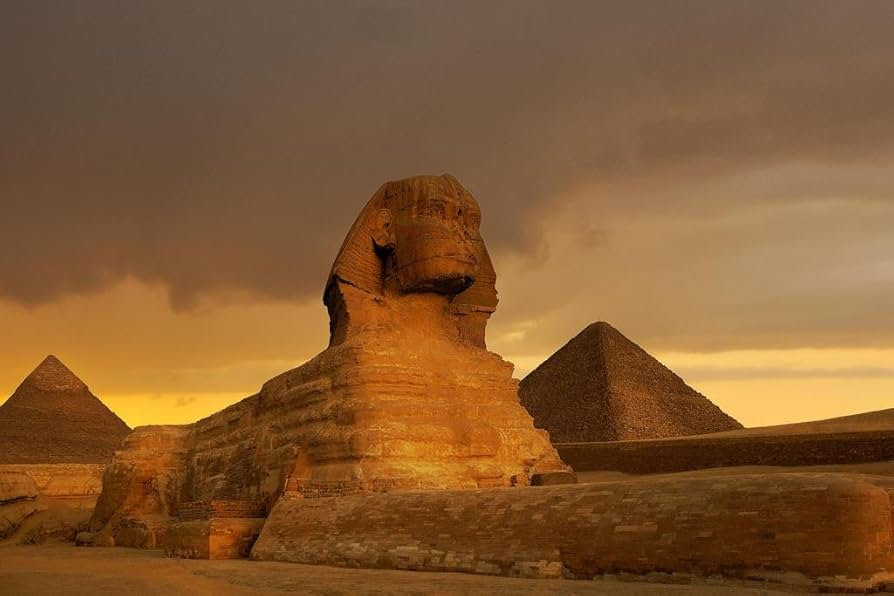
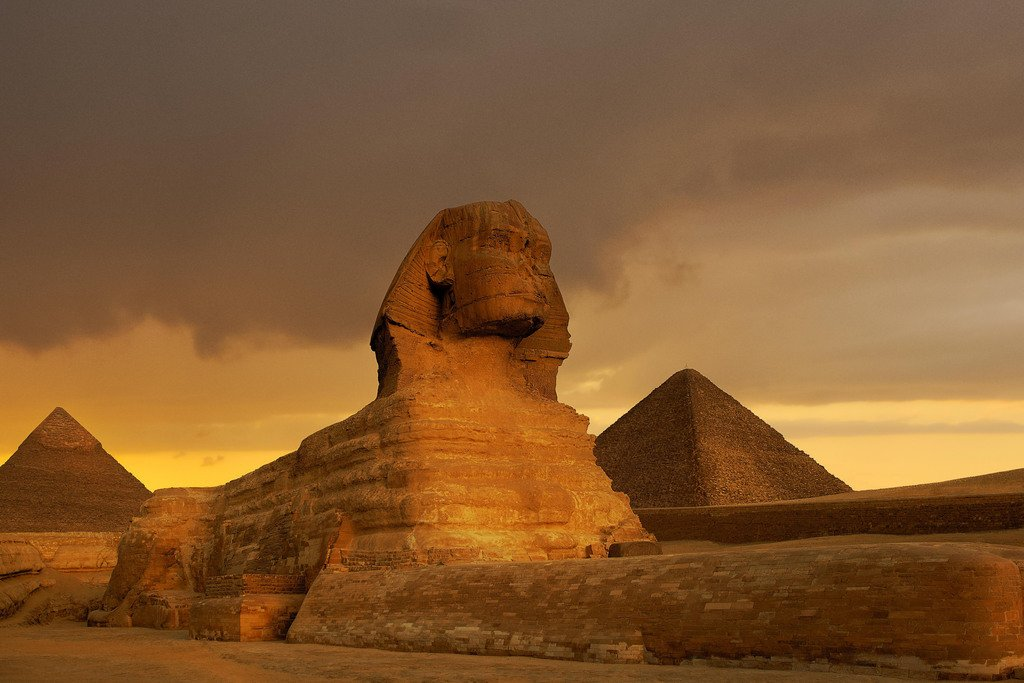
Update the image for Day 2 of the event
Replace the image associated with Day 2 of the event in Journey.tsx and update the sphinx-sunset.png asset.

Replit-Commit-Author: Agent
Replit-Commit-Session-Id: c9dfb889-b386-4910-8c5e-ac230acd23c5
Replit-Commit-Checkpoint-Type: full_checkpoint
Replit-Commit-Event-Id: a07e6ba2-0358-4dcb-a97b-730991e8d0f3
Replit-Helium-Checkpoint-Created: true

diff --git a/artifacts/egypt-microsite/src/pages/Journey.tsx b/artifacts/egypt-microsite/src/pages/Journey.tsx
@@ -25,7 +25,7 @@ import { ChevronLeft, ChevronRight } from "lucide-react";
 
 const itinerary = [
   { day: "Day 1", title: "Arrival in Cairo", desc: "Arrive in Cairo and meet the Star Magic Team. Transfers to your hotel in Memphis, where the journey of a lifetime begins. Settle in and share an evening al fresco meal together as a tribe.", quote: "\"I felt an instant soul recognition with strangers who quickly became family.\"", image: cairoPyramidsImg },
-  { day: "Day 2", title: "Tribe Meeting & Sphinx Sunset", desc: "Breakfast together as a group, then spend the morning in deep connection and intention-setting with the tribe. In the afternoon, be guided into the presence of the Great Sphinx of Giza — a moment of ancient recognition that words cannot capture.", quote: "\"Standing before the Sphinx, I understood why I had come.\"", image: setiTempleDay2Img },
+  { day: "Day 2", title: "Tribe Meeting & Sphinx Sunset", desc: "Breakfast together as a group, then spend the morning in deep connection and intention-setting with the tribe. In the afternoon, be guided into the presence of the Great Sphinx of Giza — a moment of ancient recognition that words cannot capture.", quote: "\"Standing before the Sphinx, I understood why I had come.\"", image: sphinxSunsetImg },
   { day: "Day 3", title: "Luxor Temple & Seti Temple", desc: "Fly to Luxor and step into one of the most celebrated sacred sites in the world. The illuminated columns of Luxor Temple hold thousands of years of initiation energy. An evening visit to Seti Temple deepens the transmission.", quote: "\"The temple felt alive, as if the stones themselves were breathing with us.\"", image: karnakColumns },
   { day: "Day 4", title: "Unfinished Obelisk & Aswan Market", desc: "An afternoon visit to the famous Unfinished Obelisk reveals the hidden mastery of ancient builders. Explore the Nubian market, where authentic spices, herbs, and local crafts carry the living spirit of this land.", quote: "\"Every stone here holds a story older than memory.\"", image: abuSimbel },
   { day: "Day 5", title: "Abu Simbel Temples", desc: "An early morning journey to the monumental Abu Simbel Temples — carved into the cliffside and aligned perfectly with the sun twice a year. Standing before the great statues of Ramses II, we anchored solar codes of sovereignty and power.", quote: "\"I have never felt so small, yet so infinitely powerful.\"", image: abuSimbel },
